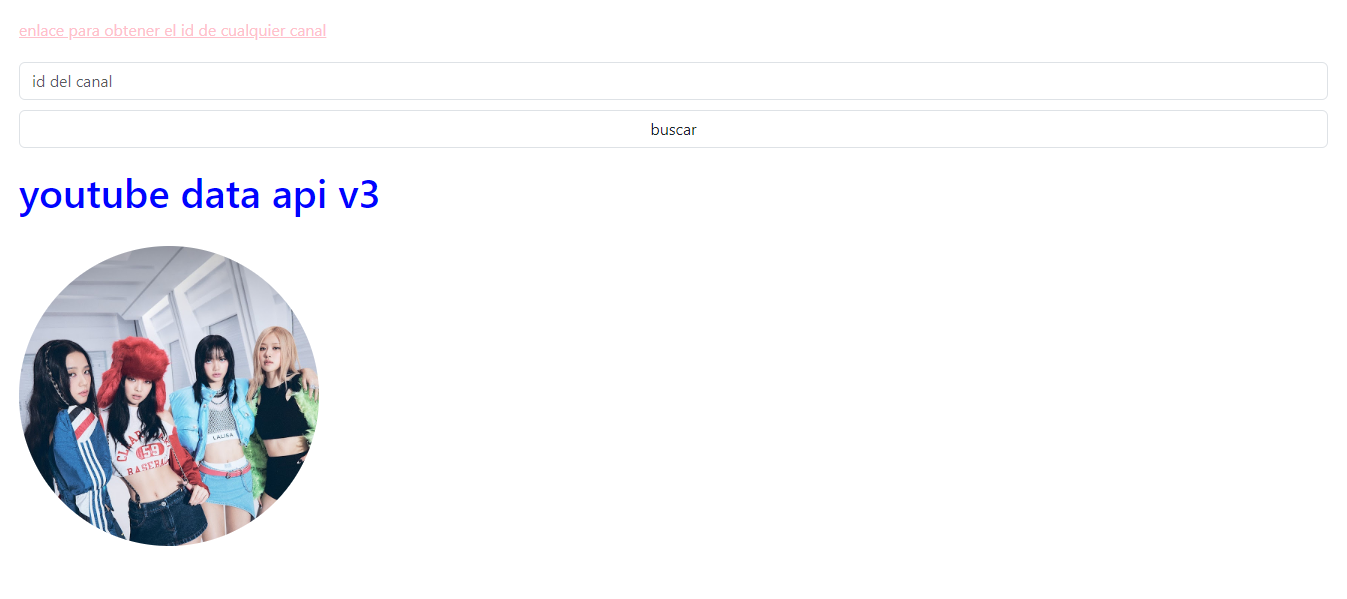
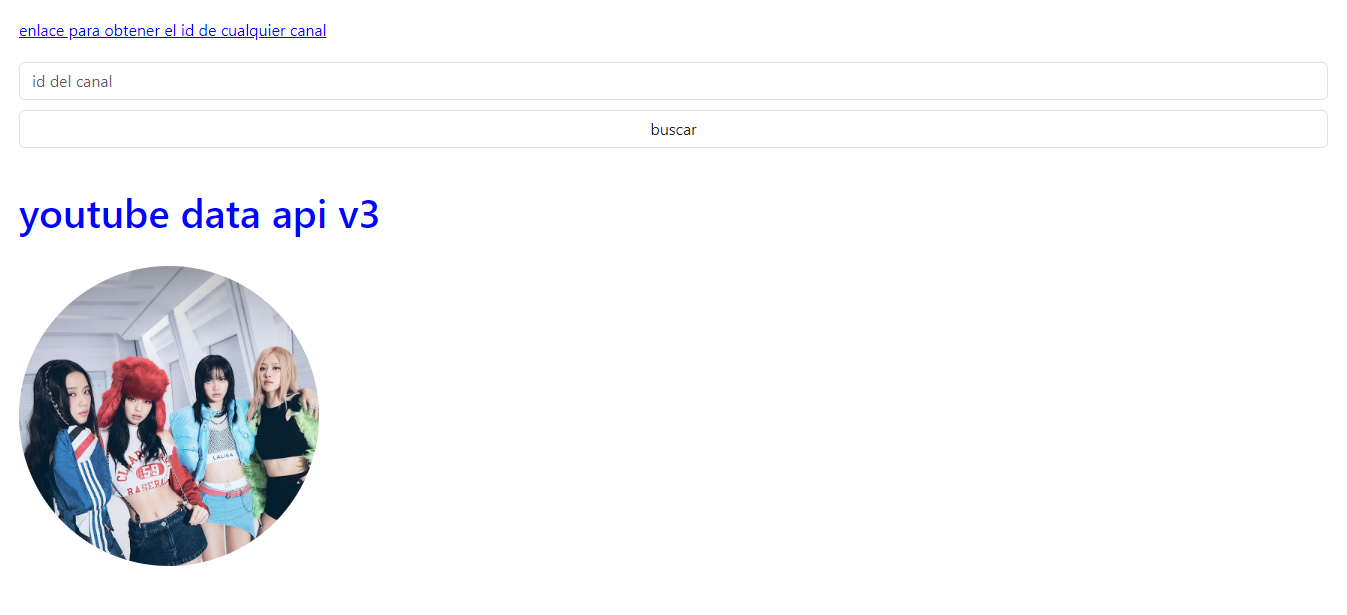
Updates

Changed region(s): [[0.0, 0.3005, 0.2806, 0.9316], [0.0312, 0.1202, 0.9666, 0.2404], [0.0, 0.0301, 0.2494, 0.0902]]

diff --git a/assets/index-ef11070e.css b/assets/index-ef11070e.css
@@ -1,4 +1,4 @@
-@charset "UTF-8";.main{font-family:Lucida Sans,Lucida Sans Regular,Lucida Grande,Lucida Sans Unicode,Geneva,Verdana,sans-serif;display:flex;flex-wrap:wrap;width:100%;background-image:url(../zyro-imagejisoo.png);background-size:cover;background-attachment:fixed;background-position:center}@media screen and (max-width: 480px){.main{background-image:url(../zyro-imageroose.png)}}.linksarea{box-sizing:border-box;width:100%;height:35px;position:fixed;z-index:3;background-color:#000;left:0;top:0;display:flex;justify-content:center}a{width:25%}.links{height:35px;display:flex;align-items:center;justify-content:center;transition-property:right;transition-duration:.7s;font-size:15px;color:#fff;position:relative}.links:hover{color:#00ffea;top:5px}.contenedor{margin-right:10px;width:50vh;height:50vh;display:inline-block;background-color:transparent;vertical-align:bottom}.cajita1{box-sizing:border-box;width:25%;height:25%;background-color:#87ceeb;position:relative;border-left:3px solid rgb(0,255,255);border-top:3px solid rgb(0,255,255);border-right:3px solid transparent;border-bottom:3px solid transparent;background-color:transparent}.cajita2{box-sizing:border-box;width:25%;height:25%;background-color:#87ceeb;position:relative;left:75%;bottom:25%;border-top:3px solid rgb(0,255,255);border-right:3px solid rgb(3,255,255);border-left:3px solid transparent;border-bottom:3px solid transparent;background-color:transparent}.cajita3{box-sizing:border-box;width:25%;height:25%;background-color:#87ceeb;position:relative;left:75%;top:25%;border-right:3px solid rgb(0,255,255);border-bottom:3px solid rgb(0,255,255);border-left:3px solid transparent;border-top:3px solid transparent;background-color:transparent}.cajita4{box-sizing:border-box;width:25%;height:25%;background-color:#87ceeb;position:relative;border-left:3px solid rgb(0,255,255);border-bottom:3px solid rgb(0,255,255);border-right:3px solid transparent;border-top:3px solid transparent;background-color:transparent}.cajita5{box-sizing:border-box;width:90%;height:90%;position:relative;bottom:95%;left:5%;background-image:url(../IMG20230926000414.jpg);background-position-y:-60px;background-size:cover;border-radius:100%;border:3px solid white}@media screen and (max-height:480px) and (orientation: landscape){.contenedor{width:60vh;height:60vh;margin-top:45px}}@media screen and (max-width:480px)and (orientation: portrait){.contenedor{width:90vw;height:90vw;margin-top:45px}}@media screen and (min-width:480px) and (max-width:960px) and (orientation: portrait){.contenedor{display:block;margin:45px auto auto;width:70vw;height:70vw}}.bienvenida{flex-grow:1;height:100vh;display:flex;justify-content:center;align-items:center}.bienvenida_item{margin-left:10px;margin-right:10px;width:90%}.bienvenida_info{display:inline-block;margin-bottom:0;margin-top:0;vertical-align:bottom}.bienvenida_nombre{display:inline-block;font-size:40px;margin:0;color:#0bfff3;background-color:#ffffff38;width:100%;text-align:center}.bienvenida_descripcion{display:inline-block;font-size:23px;margin:0 0 0 10px;color:#fff}@media screen and (max-height: 480px) and (orientation: landscape){.bienvenida_item{width:100%;height:100vh;margin-left:10px;margin-bottom:0}.bienvenida_info{width:60%;text-align:center}.bienvenida_nombre{font-size:27px}}@media screen and (max-width: 480px){.bienvenida{margin-left:0;margin-right:0;background-image:none}.bienvenida_item{height:100vh;width:90%;margin-right:0;margin-left:0;margin-top:0;text-align:center}.bienvenida_nombre{font-size:27px;text-align:center;margin-top:10px}}@media screen and (min-width: 480px) and (max-width: 960px) and (orientation: portrait){.bienvenida_nombre{text-align:center}.bienvenida_item{height:100vh}}.lenguajes{flex-grow:1;color:#00f7f7}.flecha{display:none}.lenguajes_name{font-size:24px;display:inline-block;color:#00f;background-color:#ffffffda;margin-left:10px}.lenguajes_descripcion{color:#00f7f7;font-size:18px;margin-left:10px;margin-right:10px;background-color:#fff3}.lenguajes_scroll{margin-right:10px;margin-left:10px;margin-bottom:10px}.lenguajes_imagen{height:135px;display:inline-block;margin-right:5px;margin-bottom:5px}@media screen and (max-width: 480px){.lenguajes_imagen{width:50%;height:50%;margin:0}.flecha{display:inline-block;width:20%;margin-bottom:10px;animation-duration:1s;animation-name:slidein;animation-iteration-count:infinite;animation-direction:alternate}@keyframes slidein{0%{margin-left:0}to{margin-left:30px}}.lenguajes_scroll{margin-left:0;margin-right:0;display:flex;width:100%;flex-wrap:nowrap;overflow-x:scroll}.lenguajes{margin-left:5vw;margin-right:5vw;width:90vw}.lenguajes_name{font-size:18px;margin-left:0}.lenguajes_descripcion{font-size:12px;margin-left:0;margin-right:0}}.idioma{width:100%;margin-bottom:40px;padding-bottom:10px;flex-grow:1;color:#002df7}.idioma_name{display:inline-block;font-size:24px;margin-left:10px;margin-right:10px;background-color:#ffffffda}.idioma_descripcion{font-size:18px;color:#00f7f7;margin-left:10px;margin-right:10px;background-color:#fff3}.idioma_imagen{width:200px;height:120px;margin-left:10px}@media screen and (max-width: 480px){.idioma_imagen{width:100%;height:50vw;margin-left:0;margin-right:0;object-fit:cover}.idioma{width:90vw;margin-left:5vw;margin-right:5vw}.idioma_name{font-size:18px;margin-left:0;margin-right:0}.idioma_descripcion{font-size:12px;margin-left:0;margin-right:0}}.proyecto{margin-bottom:50px;font-size:18px;color:#00f7f7}.proyecto_name{font-size:24px;display:inline-block;margin-left:10px;margin-right:10px;background-color:#ffffffda;color:#00f}.proyecto_descripcion{margin-left:10px;margin-right:10px;background-color:#ffffff2d}.proyecto_boton{text-decoration:none;border-radius:5px;padding:3px;position:relative;bottom:7px;vertical-align:bottom;margin-right:10px;background-color:#00f;color:#fff}.proyecto_boton:hover{background-color:#00f7ff}.proyecto_imagen{display:inline-block;width:400px;margin-right:15px;margin-left:10px}@media screen and (max-width: 480px){.proyecto_boton{position:static;margin-top:10px;display:block;width:50%}.proyecto_imagen{display:inline-block;width:100%;margin-left:0;margin-right:0}.proyecto_name{font-size:18px;margin-left:0;margin-right:0}.proyecto_descripcion{font-size:12px;margin-left:0;margin-right:0}}@media screen and (min-width: 480px) and (max-width: 769px){.proyecto_imagen{display:block}.proyecto_boton{position:relative;bottom:0;top:11px;margin-left:10px;margin-right:0}}.proyectos{flex-grow:1}@media screen and (max-width:480px){.proyectos{background-image:none;width:90vw;margin-left:5vw;margin-right:5vw}}.sobremi{height:calc(100vh - 30px);box-sizing:border-box;flex-grow:1;font-size:18px;color:#00fcfc}.sobremi_titulo{font-size:24px;display:inline-block;color:#0043fc;margin-left:10px;margin-right:10px;background-color:#ffffffda}.sobremi_descripcion{margin-left:10px;margin-right:10px;background-color:#41ffdf8c;background-color:#fff3}@media screen and (max-width: 480px){.sobremi{width:100vw;margin:0;margin-left:5vw;margin-right:5vw;background-image:none}.sobremi_titulo{font-size:18px;margin-left:0;margin-right:0}.sobremi_descripcion{font-size:12px;margin-left:0;margin-right:0}}@media screen and (max-height: 480px) and (orientation: landscape){.sobremi{height:calc(160vh - 30px)}}.formulario{margin-top:10px;margin-bottom:20px;width:100%;height:170px}.formulario_nombre,.formulario_correo{display:block;font-family:monospace;width:60%;margin-left:10px;outline:none;border:2px solid rgb(0,255,234);margin-top:5px;border-radius:5px;color:#04f}.formulario_nombre::placeholder,.formulario_correo::placeholder,.formulario_mensaje::placeholder{color:#0004ff}.formulario_mensaje{border:2px solid rgb(7,255,255);display:block;font-family:monospace;height:70px;width:60%;margin-top:5px;margin-bottom:5px;margin-left:10px;outline:none;border-radius:5px;color:#0026ff}.formulario_boton{margin-top:2px;margin-left:10px;background-color:#fff;border:2px solid rgb(0,255,255);background-color:#00f7f7;border-radius:5px;color:#fff;font-size:17px;cursor:pointer}.formulario_boton:hover{background-color:#00f;border:2px solid rgb(0,47,255)}@media screen and (max-width:480px){.formulario_nombre,.formulario_correo,.formulario_mensaje{margin-left:0;margin-right:0;width:100%;box-sizing:border-box;font-size:13px}.formulario_boton{margin-left:0}}@media screen and (min-width:480px) and (max-width:769px){.formulario_nombre,.formulario_correo,.formulario_mensaje{width:calc(100% - 20px);box-sizing:border-box}.formulario_mensaje{width:calc(100% - 22px);box-sizing:border-box}}#root1{font-family:Lucida Sans,Lucida Sans Regular,Lucida Grande,Lucida Sans Unicode,Geneva,Verdana,sans-serif;font-size:20px}.mainmain{color:#0004ff;font-size:40px;margin:0}.fa-brands{margin-left:10px;margin-right:10px}.banner{width:100%;background-color:#fff;border-radius:10px}.myphoto{width:20%;border-radius:100%;margin-left:0;margin-top:30px;margin-right:10px;display:block}.title,.description{margin:0}#listas{margin-left:20px}.description{font-size:17px}.enlace{color:pink}.myphoto{width:300px}.entrada{margin-right:5px;margin-top:20px;margin-bottom:10px}.head{margin:20px}.info{vertical-align:top;display:inline-block;margin-left:0;margin-top:50px;word-break:break-word}.nameseccion{width:100%;object-fit:cover;color:#001aff;background-color:#fff;font-size:23px;height:45px}iframe{width:400px;height:200px;display:inline-block;border-radius:10px}.namelist{font-size:17px;color:#0019f7}.descriptionlist{font-size:15px}.maincaja{margin:10px 20px 20px}.cajaseccion{display:inline-block;margin-bottom:20px}.videos{margin-right:10px;display:inline-block;border-radius:30px;width:100%}hr{width:50%;border:3px solid rgb(127,251,255)!important}@media screen and (max-width:480px){iframe{width:100%;height:170px;display:inline-block;border-radius:10px}.info{margin-left:0}}/*!
+@charset "UTF-8";.main{font-family:Lucida Sans,Lucida Sans Regular,Lucida Grande,Lucida Sans Unicode,Geneva,Verdana,sans-serif;display:flex;flex-wrap:wrap;width:100%;background-image:url(../zyro-imagejisoo.png);background-size:cover;background-attachment:fixed;background-position:center}@media screen and (max-width: 480px){.main{background-image:url(../zyro-imageroose.png)}}.linksarea{box-sizing:border-box;width:100%;height:35px;position:fixed;z-index:3;background-color:#000;left:0;top:0;display:flex;justify-content:center}a{width:25%}.links{height:35px;display:flex;align-items:center;justify-content:center;transition-property:right;transition-duration:.7s;font-size:15px;color:#fff;position:relative}.links:hover{color:#00ffea;top:5px}.contenedor{margin-right:10px;width:50vh;height:50vh;display:inline-block;background-color:transparent;vertical-align:bottom}.cajita1{box-sizing:border-box;width:25%;height:25%;background-color:#87ceeb;position:relative;border-left:3px solid rgb(0,255,255);border-top:3px solid rgb(0,255,255);border-right:3px solid transparent;border-bottom:3px solid transparent;background-color:transparent}.cajita2{box-sizing:border-box;width:25%;height:25%;background-color:#87ceeb;position:relative;left:75%;bottom:25%;border-top:3px solid rgb(0,255,255);border-right:3px solid rgb(3,255,255);border-left:3px solid transparent;border-bottom:3px solid transparent;background-color:transparent}.cajita3{box-sizing:border-box;width:25%;height:25%;background-color:#87ceeb;position:relative;left:75%;top:25%;border-right:3px solid rgb(0,255,255);border-bottom:3px solid rgb(0,255,255);border-left:3px solid transparent;border-top:3px solid transparent;background-color:transparent}.cajita4{box-sizing:border-box;width:25%;height:25%;background-color:#87ceeb;position:relative;border-left:3px solid rgb(0,255,255);border-bottom:3px solid rgb(0,255,255);border-right:3px solid transparent;border-top:3px solid transparent;background-color:transparent}.cajita5{box-sizing:border-box;width:90%;height:90%;position:relative;bottom:95%;left:5%;background-image:url(../IMG20230926000414.jpg);background-position-y:-60px;background-size:cover;border-radius:100%;border:3px solid white}@media screen and (max-height:480px) and (orientation: landscape){.contenedor{width:60vh;height:60vh;margin-top:45px}}@media screen and (max-width:480px)and (orientation: portrait){.contenedor{width:90vw;height:90vw;margin-top:45px}}@media screen and (min-width:480px) and (max-width:960px) and (orientation: portrait){.contenedor{display:block;margin:45px auto auto;width:70vw;height:70vw}}.bienvenida{flex-grow:1;height:100vh;display:flex;justify-content:center;align-items:center}.bienvenida_item{margin-left:10px;margin-right:10px;width:90%}.bienvenida_info{display:inline-block;margin-bottom:0;margin-top:0;vertical-align:bottom}.bienvenida_nombre{display:inline-block;font-size:40px;margin:0;color:#0bfff3;background-color:#ffffff38;width:100%;text-align:center}.bienvenida_descripcion{display:inline-block;font-size:23px;margin:0 0 0 10px;color:#fff}@media screen and (max-height: 480px) and (orientation: landscape){.bienvenida_item{width:100%;height:100vh;margin-left:10px;margin-bottom:0}.bienvenida_info{width:60%;text-align:center}.bienvenida_nombre{font-size:27px}}@media screen and (max-width: 480px){.bienvenida{margin-left:0;margin-right:0;background-image:none}.bienvenida_item{height:100vh;width:90%;margin-right:0;margin-left:0;margin-top:0;text-align:center}.bienvenida_nombre{font-size:27px;text-align:center;margin-top:10px}}@media screen and (min-width: 480px) and (max-width: 960px) and (orientation: portrait){.bienvenida_nombre{text-align:center}.bienvenida_item{height:100vh}}.lenguajes{flex-grow:1;color:#00f7f7}.flecha{display:none}.lenguajes_name{font-size:24px;display:inline-block;color:#00f;background-color:#ffffffda;margin-left:10px}.lenguajes_descripcion{color:#00f7f7;font-size:18px;margin-left:10px;margin-right:10px;background-color:#fff3}.lenguajes_scroll{margin-right:10px;margin-left:10px;margin-bottom:10px}.lenguajes_imagen{height:135px;display:inline-block;margin-right:5px;margin-bottom:5px}@media screen and (max-width: 480px){.lenguajes_imagen{width:50%;height:50%;margin:0}.flecha{display:inline-block;width:20%;margin-bottom:10px;animation-duration:1s;animation-name:slidein;animation-iteration-count:infinite;animation-direction:alternate}@keyframes slidein{0%{margin-left:0}to{margin-left:30px}}.lenguajes_scroll{margin-left:0;margin-right:0;display:flex;width:100%;flex-wrap:nowrap;overflow-x:scroll}.lenguajes{margin-left:5vw;margin-right:5vw;width:90vw}.lenguajes_name{font-size:18px;margin-left:0}.lenguajes_descripcion{font-size:12px;margin-left:0;margin-right:0}}.idioma{width:100%;margin-bottom:40px;padding-bottom:10px;flex-grow:1;color:#002df7}.idioma_name{display:inline-block;font-size:24px;margin-left:10px;margin-right:10px;background-color:#ffffffda}.idioma_descripcion{font-size:18px;color:#00f7f7;margin-left:10px;margin-right:10px;background-color:#fff3}.idioma_imagen{width:200px;height:120px;margin-left:10px}@media screen and (max-width: 480px){.idioma_imagen{width:100%;height:50vw;margin-left:0;margin-right:0;object-fit:cover}.idioma{width:90vw;margin-left:5vw;margin-right:5vw}.idioma_name{font-size:18px;margin-left:0;margin-right:0}.idioma_descripcion{font-size:12px;margin-left:0;margin-right:0}}.proyecto{margin-bottom:50px;font-size:18px;color:#00f7f7}.proyecto_name{font-size:24px;display:inline-block;margin-left:10px;margin-right:10px;background-color:#ffffffda;color:#00f}.proyecto_descripcion{margin-left:10px;margin-right:10px;background-color:#ffffff2d}.proyecto_boton{text-decoration:none;border-radius:5px;padding:3px;position:relative;bottom:7px;vertical-align:bottom;margin-right:10px;background-color:#00f;color:#fff}.proyecto_boton:hover{background-color:#00f7ff}.proyecto_imagen{display:inline-block;width:400px;margin-right:15px;margin-left:10px}@media screen and (max-width: 480px){.proyecto_boton{position:static;margin-top:10px;display:block;width:50%}.proyecto_imagen{display:inline-block;width:100%;margin-left:0;margin-right:0}.proyecto_name{font-size:18px;margin-left:0;margin-right:0}.proyecto_descripcion{font-size:12px;margin-left:0;margin-right:0}}@media screen and (min-width: 480px) and (max-width: 769px){.proyecto_imagen{display:block}.proyecto_boton{position:relative;bottom:0;top:11px;margin-left:10px;margin-right:0}}.proyectos{flex-grow:1}@media screen and (max-width:480px){.proyectos{background-image:none;width:90vw;margin-left:5vw;margin-right:5vw}}.sobremi{height:calc(100vh - 30px);box-sizing:border-box;flex-grow:1;font-size:18px;color:#00fcfc}.sobremi_titulo{font-size:24px;display:inline-block;color:#0043fc;margin-left:10px;margin-right:10px;background-color:#ffffffda}.sobremi_descripcion{margin-left:10px;margin-right:10px;background-color:#41ffdf8c;background-color:#fff3}@media screen and (max-width: 480px){.sobremi{width:100vw;margin:0;margin-left:5vw;margin-right:5vw;background-image:none}.sobremi_titulo{font-size:18px;margin-left:0;margin-right:0}.sobremi_descripcion{font-size:12px;margin-left:0;margin-right:0}}@media screen and (max-height: 480px) and (orientation: landscape){.sobremi{height:calc(160vh - 30px)}}.formulario{margin-top:10px;margin-bottom:20px;width:100%;height:170px}.formulario_nombre,.formulario_correo{display:block;font-family:monospace;width:60%;margin-left:10px;outline:none;border:2px solid rgb(0,255,234);margin-top:5px;border-radius:5px;color:#04f}.formulario_nombre::placeholder,.formulario_correo::placeholder,.formulario_mensaje::placeholder{color:#0004ff}.formulario_mensaje{border:2px solid rgb(7,255,255);display:block;font-family:monospace;height:70px;width:60%;margin-top:5px;margin-bottom:5px;margin-left:10px;outline:none;border-radius:5px;color:#0026ff}.formulario_boton{margin-top:2px;margin-left:10px;background-color:#fff;border:2px solid rgb(0,255,255);background-color:#00f7f7;border-radius:5px;color:#fff;font-size:17px;cursor:pointer}.formulario_boton:hover{background-color:#00f;border:2px solid rgb(0,47,255)}@media screen and (max-width:480px){.formulario_nombre,.formulario_correo,.formulario_mensaje{margin-left:0;margin-right:0;width:100%;box-sizing:border-box;font-size:13px}.formulario_boton{margin-left:0}}@media screen and (min-width:480px) and (max-width:769px){.formulario_nombre,.formulario_correo,.formulario_mensaje{width:calc(100% - 20px);box-sizing:border-box}.formulario_mensaje{width:calc(100% - 22px);box-sizing:border-box}}#root1{font-family:Lucida Sans,Lucida Sans Regular,Lucida Grande,Lucida Sans Unicode,Geneva,Verdana,sans-serif;font-size:20px}.mainmain{color:#0004ff;font-size:40px;margin:0}.fa-brands{margin-left:10px;margin-right:10px}.banner{width:100%;background-color:#fff;border-radius:10px}.myphoto{width:20%;border-radius:100%;margin-left:0;margin-top:30px;margin-right:10px;display:block}.title,.description{margin:0}#listas{padding-left:20px;padding-right:20px;width:100%;box-sizing:border-box}.description{font-size:17px}.enlace{color:#0400ff}.myphoto{width:300px}.entrada{margin-right:5px;margin-top:20px;margin-bottom:10px}.head{margin:20px}.info{vertical-align:top;display:inline-block;margin-left:0;margin-top:50px;word-break:break-word}iframe{width:400px;height:200px;display:inline-block;border-radius:10px}.namelist{font-size:17px;color:#0019f7}.descriptionlist{font-size:15px}.maincaja{padding:20px;margin-top:10px;box-sizing:border-box}.cajaseccion{width:100%}.videos{display:inline-block;border-radius:30px;width:100%;margin-bottom:10px}hr{width:50%;border:3px solid rgb(127,251,255)!important;margin:0 0 10px!important}@media screen and (max-width:480px){iframe{width:100%;height:175px;display:inline-block;border-radius:10px}.info{margin-left:0}.myphoto{margin:auto}.videos{margin-right:0}}/*!
 * Bootstrap  v5.3.2 (https://getbootstrap.com/)
 * Copyright 2011-2023 The Bootstrap Authors
 * Licensed under MIT (https://github.com/twbs/bootstrap/blob/main/LICENSE)

diff --git a/index.html b/index.html
@@ -8,8 +8,8 @@
 <link rel="stylesheet" href="https://cdnjs.cloudflare.com/ajax/libs/font-awesome/6.4.2/css/all.min.css" integrity="sha512-z3gLpd7yknf1YoNbCzqRKc4qyor8gaKU1qmn+CShxbuBusANI9QpRohGBreCFkKxLhei6S9CQXFEbbKuqLg0DA==" crossorigin="anonymous" referrerpolicy="no-referrer" />
 <link rel="shortcut icon" href="#" />
 
-  <script type="module" crossorigin src="./assets/index-a9e6e150.js"></script>
-  <link rel="stylesheet" href="./assets/index-2facc190.css">
+  <script type="module" crossorigin src="/assets/index-03778ad2.js"></script>
+  <link rel="stylesheet" href="/assets/index-ef11070e.css">
 </head>
 <body style="margin: 0px;">
 <div id="root"></div>
